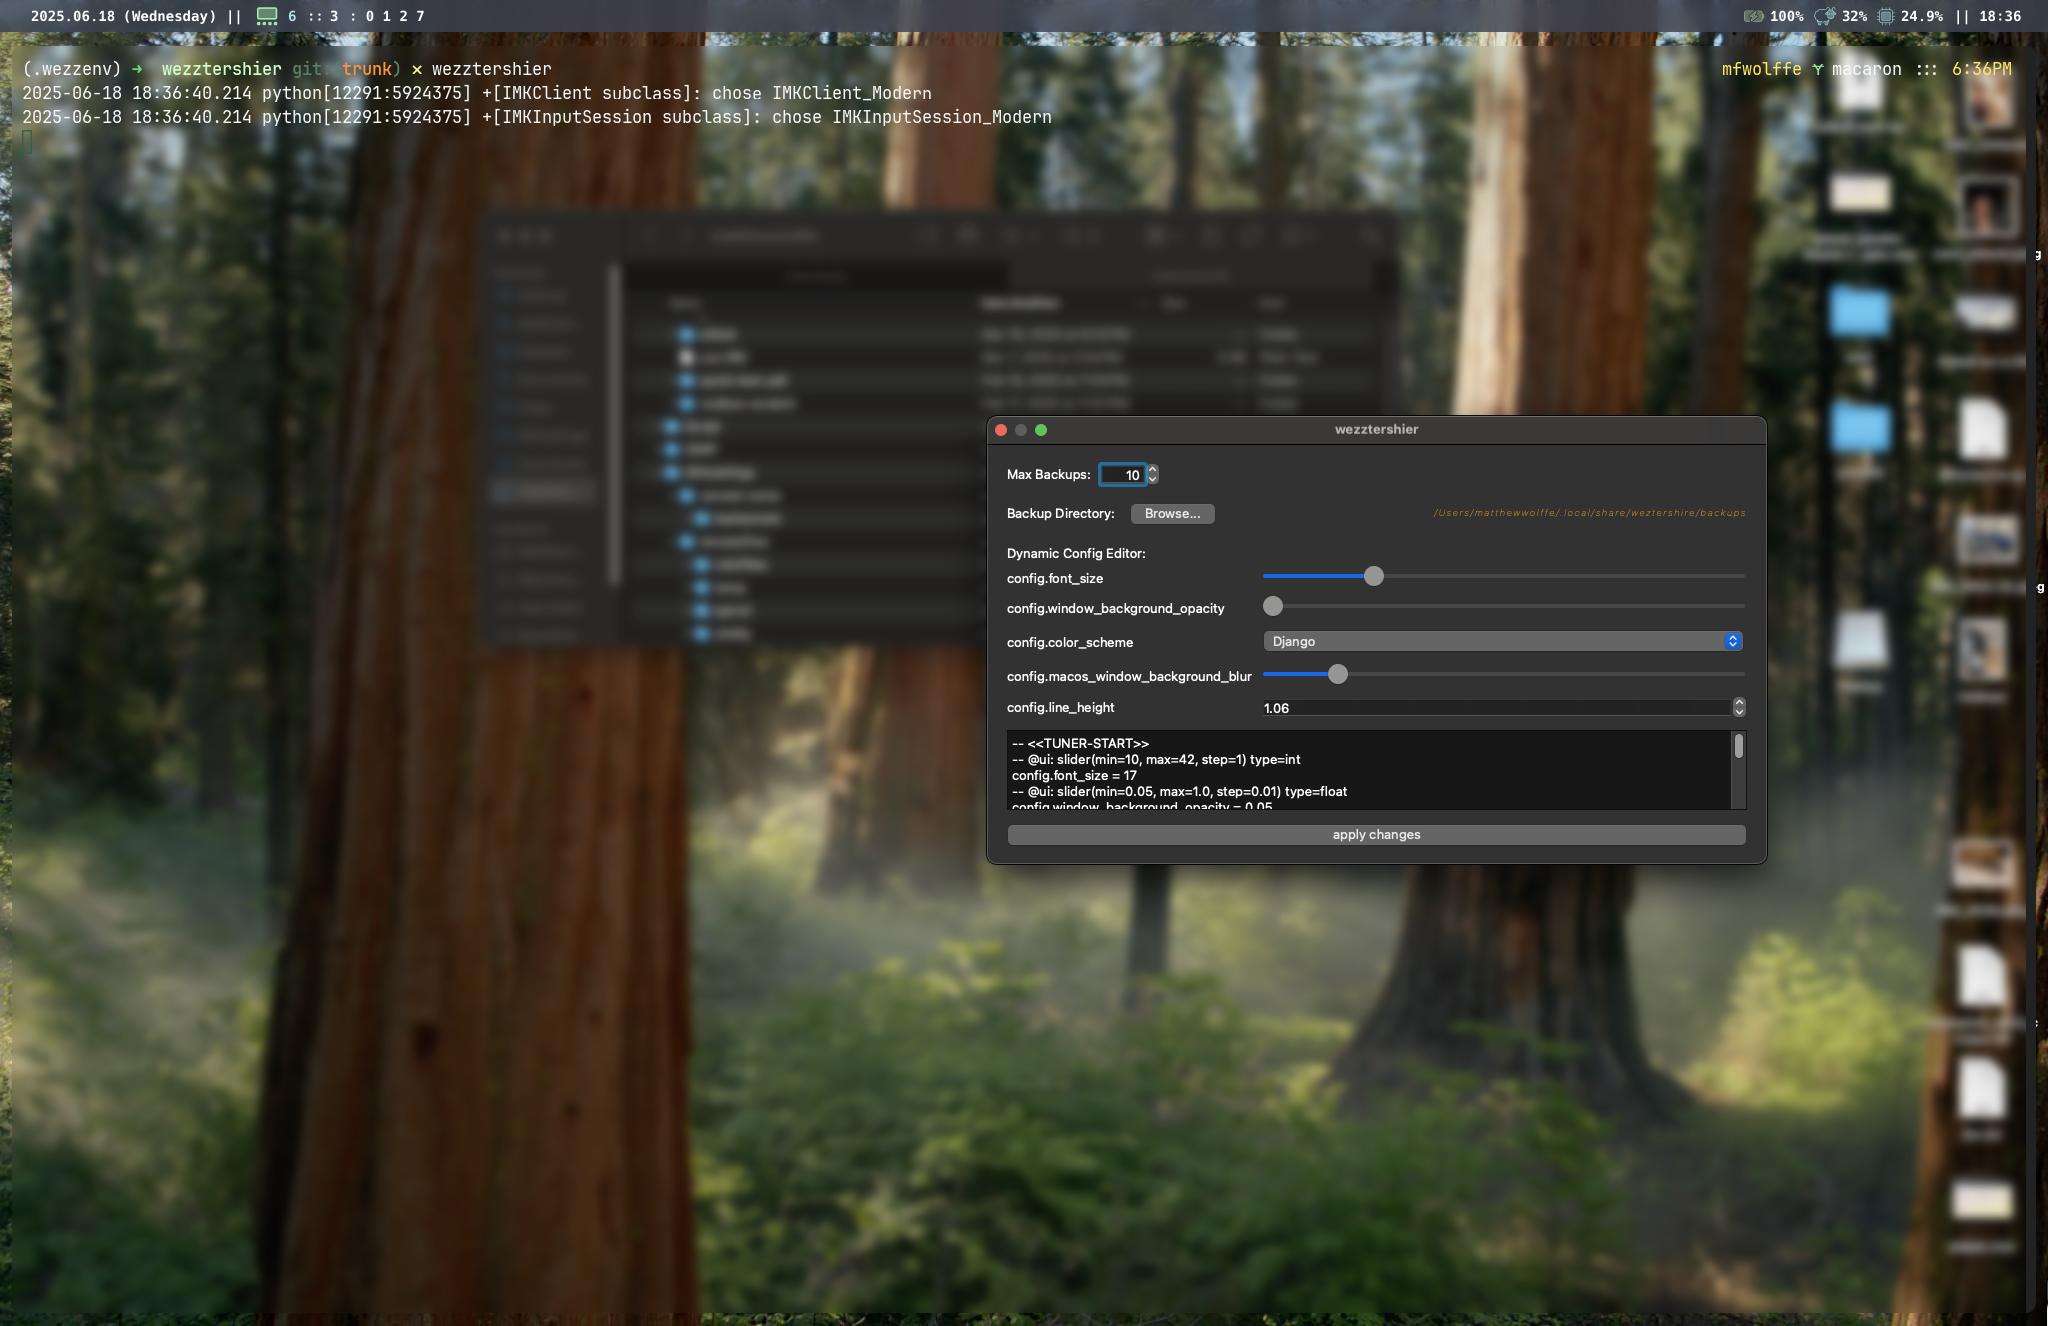
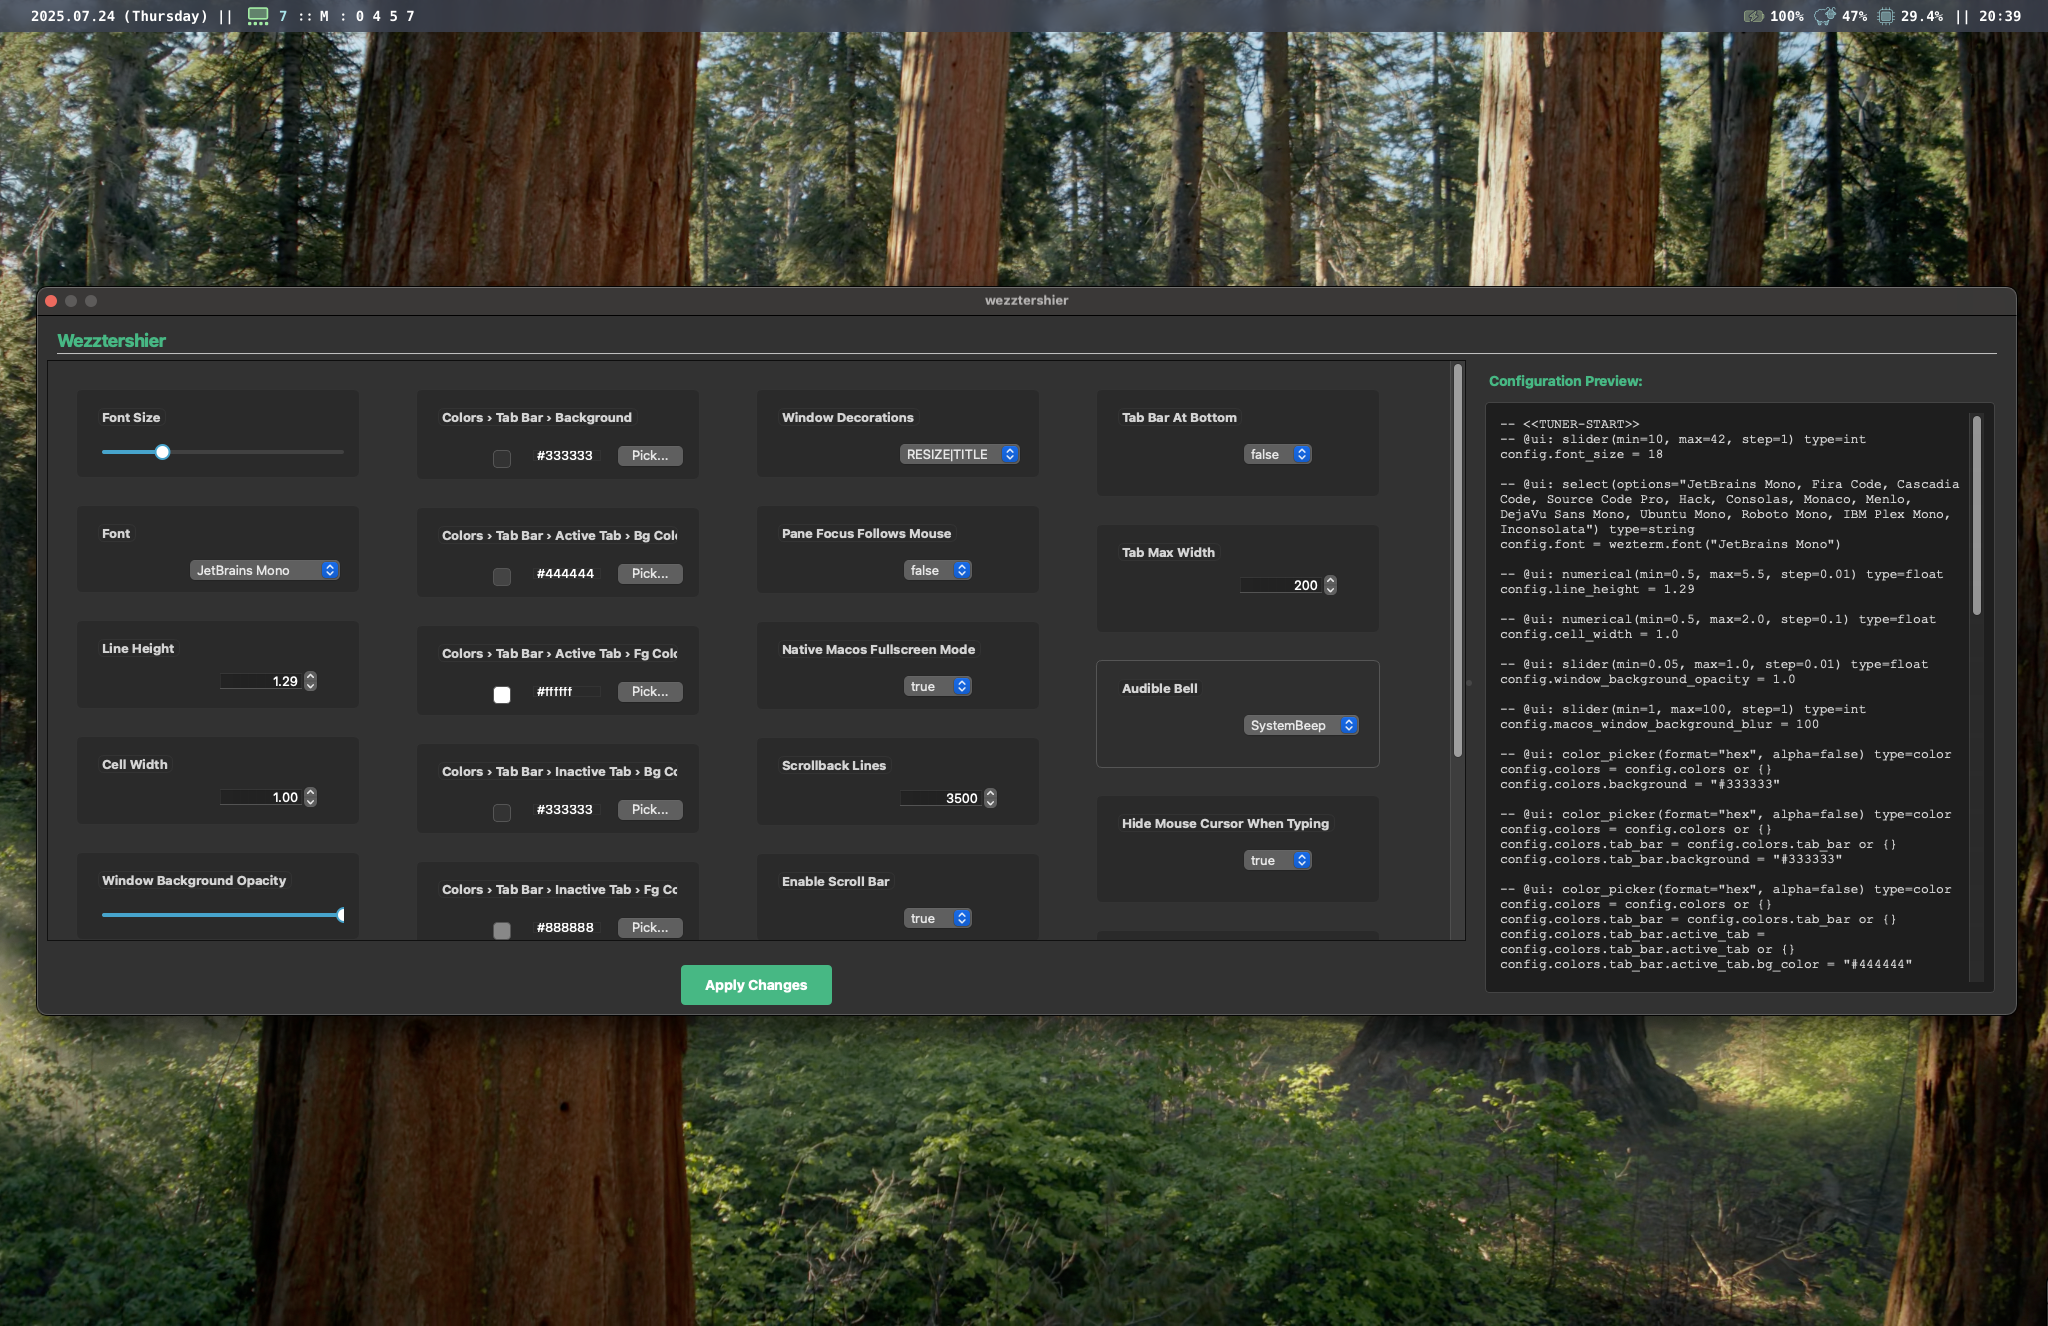
wez screen, wadlweben to projects

diff --git a/src/app/data/data.ts b/src/app/data/data.ts
@@ -44,6 +44,12 @@ const shortProjects: Array<shortProject> = [
     shortDescript: "procedurally generate 11 musical variations on a student composed motive and build + render single score",
   },
   {
+    title: "waldweben",
+    imgPath: "/images/waldweben.png",
+    shortDescript: "static site generator using frontmatter for my poetry and prose",
+    url: "forrestmurmur.com"
+  },
+  {
     title: "dukesh (for school)",
     imgPath: "/images/dukesh.png",
     shortDescript: 'simple emulated unix "shell", including custom shell builtins, utilities, piping, env, etc.',
